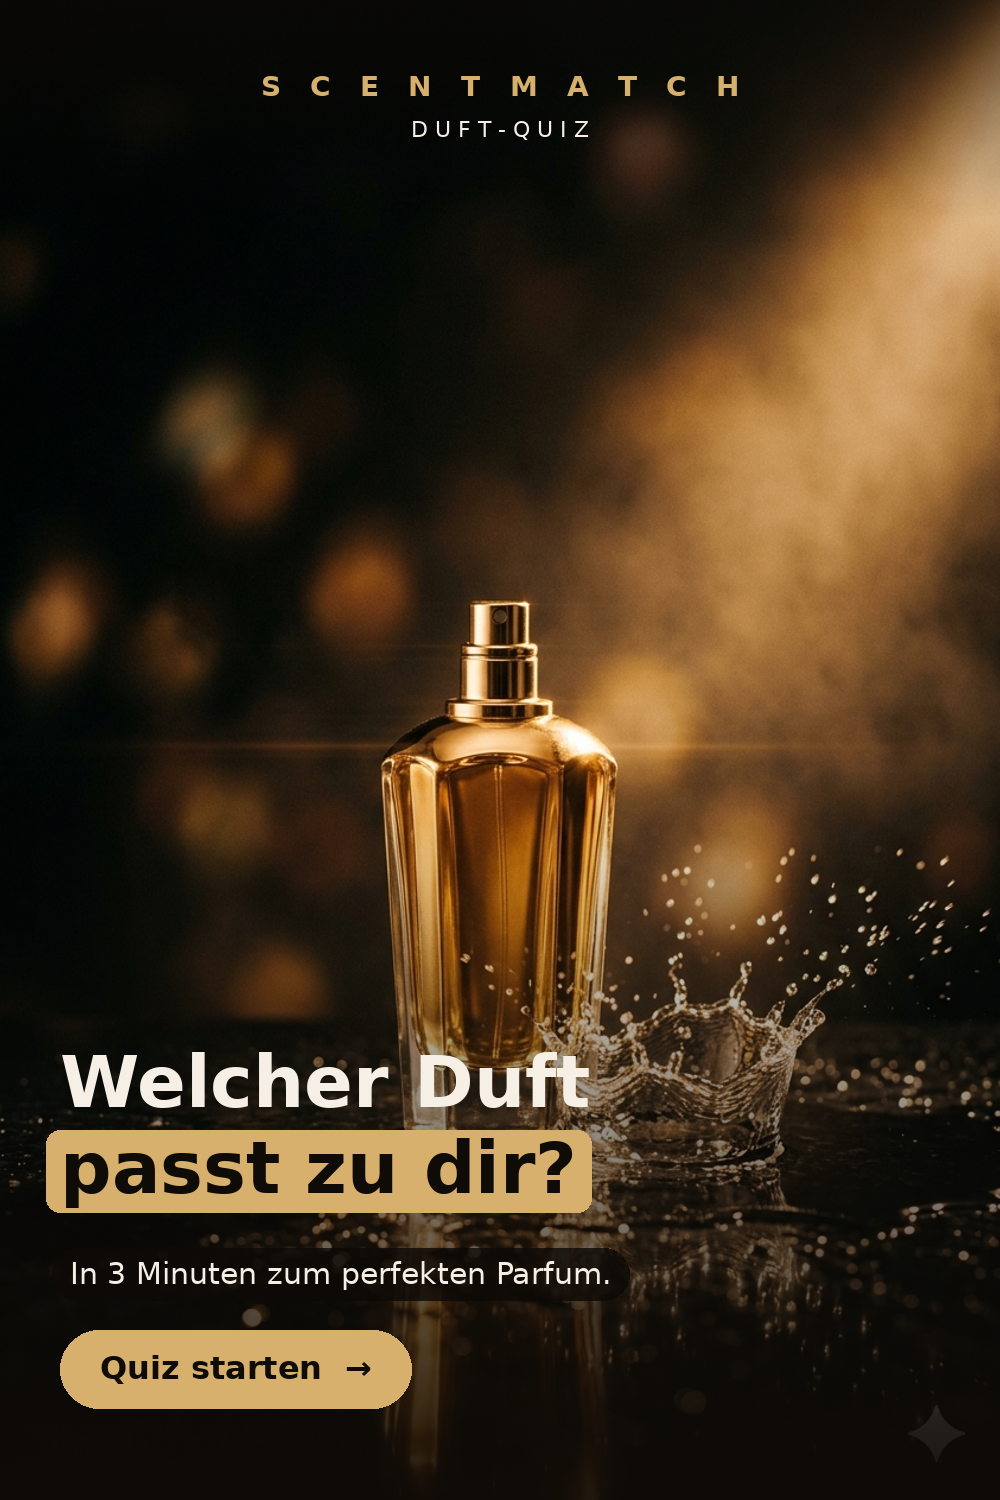
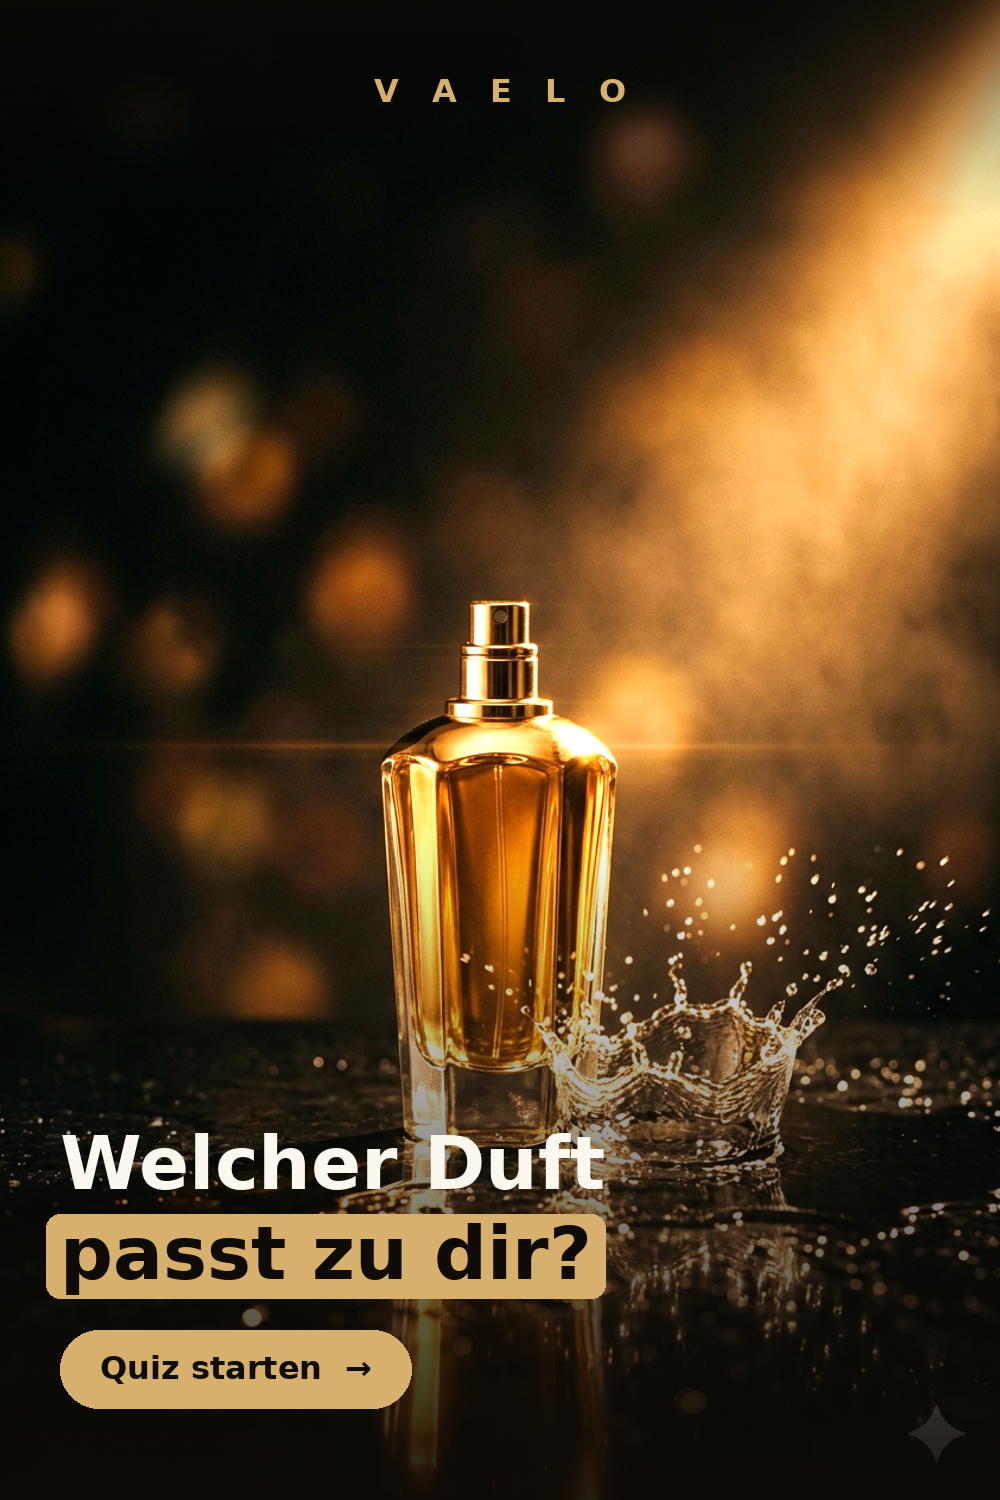
Marke umbenannt: ScentMatch -> Vaelo (UI, Metadaten, Bild-Assets)
- Alle Anzeige-Texte ScentMatch -> Vaelo / SCENTMATCH -> VAELO
- DB-Feld scentmatch_score und URL scentmatch-ai bleiben technisch erhalten
- Neue Profilbild- und Pin-Assets mit Vaelo-Branding
- CLAUDE.md Namenswechsel-Hinweis ergaenzt

Claude-Session: https://claude.ai/code/session_01S4e924XgWkaCsCmU3UswFh

diff --git a/app/page.tsx b/app/page.tsx
@@ -191,10 +191,10 @@ type QuizSnapshot = {
 
 // Fallback, falls die Datenbank (noch) nicht erreichbar ist. Ohne slug -> kein Link.
 const starterPerfumes: Perfume[] = [
-  { id: '1', perfume_name: 'Beach Walk Style', slug: null, gender: 'Unisex', fragrance_family: 'clean', price_chf: 95, longevity: 6, sillage: 5, scentmatch_score: 91, season: 'Sommer', occasion: 'Alltag', description: null, image_url: null, affiliate_url: null, top_notes: null, heart_notes: null, base_notes: null, brands: { name: 'ScentMatch Pick' } },
-  { id: '2', perfume_name: 'Vanilla Cashmere Style', slug: null, gender: 'Women', fragrance_family: 'gourmand', price_chf: 79, longevity: 8, sillage: 7, scentmatch_score: 94, season: 'Herbst/Winter', occasion: 'Date', description: null, image_url: null, affiliate_url: null, top_notes: null, heart_notes: null, base_notes: null, brands: { name: 'ScentMatch Pick' } },
-  { id: '3', perfume_name: 'Dark Wood Style', slug: null, gender: 'Unisex', fragrance_family: 'woody', price_chf: 120, longevity: 9, sillage: 8, scentmatch_score: 92, season: 'Winter', occasion: 'Abend', description: null, image_url: null, affiliate_url: null, top_notes: null, heart_notes: null, base_notes: null, brands: { name: 'ScentMatch Pick' } },
-  { id: '4', perfume_name: 'Blooming Rose Style', slug: null, gender: 'Women', fragrance_family: 'floral', price_chf: 68, longevity: 7, sillage: 6, scentmatch_score: 90, season: 'Frühling', occasion: 'Alltag', description: null, image_url: null, affiliate_url: null, top_notes: null, heart_notes: null, base_notes: null, brands: { name: 'ScentMatch Pick' } }
+  { id: '1', perfume_name: 'Beach Walk Style', slug: null, gender: 'Unisex', fragrance_family: 'clean', price_chf: 95, longevity: 6, sillage: 5, scentmatch_score: 91, season: 'Sommer', occasion: 'Alltag', description: null, image_url: null, affiliate_url: null, top_notes: null, heart_notes: null, base_notes: null, brands: { name: 'Vaelo Pick' } },
+  { id: '2', perfume_name: 'Vanilla Cashmere Style', slug: null, gender: 'Women', fragrance_family: 'gourmand', price_chf: 79, longevity: 8, sillage: 7, scentmatch_score: 94, season: 'Herbst/Winter', occasion: 'Date', description: null, image_url: null, affiliate_url: null, top_notes: null, heart_notes: null, base_notes: null, brands: { name: 'Vaelo Pick' } },
+  { id: '3', perfume_name: 'Dark Wood Style', slug: null, gender: 'Unisex', fragrance_family: 'woody', price_chf: 120, longevity: 9, sillage: 8, scentmatch_score: 92, season: 'Winter', occasion: 'Abend', description: null, image_url: null, affiliate_url: null, top_notes: null, heart_notes: null, base_notes: null, brands: { name: 'Vaelo Pick' } },
+  { id: '4', perfume_name: 'Blooming Rose Style', slug: null, gender: 'Women', fragrance_family: 'floral', price_chf: 68, longevity: 7, sillage: 6, scentmatch_score: 90, season: 'Frühling', occasion: 'Alltag', description: null, image_url: null, affiliate_url: null, top_notes: null, heart_notes: null, base_notes: null, brands: { name: 'Vaelo Pick' } }
 ];
 
 export default function Home() {
@@ -393,10 +393,10 @@ export default function Home() {
   // Ergebnis teilen: nutzt das native Teilen-Menü (Handy) oder kopiert den Link.
   async function shareResult() {
     const url = buildShareUrl();
-    const title = `Mein ScentMatch-Duftprofil: ${profileText[winner].title}`;
+    const title = `Mein Vaelo-Duftprofil: ${profileText[winner].title}`;
     const text = topPick
-      ? `Mein Top-Match ist ${topPick.perfume.perfume_name}. Finde mit dem kostenlosen ScentMatch-Quiz deinen:`
-      : 'Finde mit dem kostenlosen ScentMatch-Quiz deinen Signature-Duft:';
+      ? `Mein Top-Match ist ${topPick.perfume.perfume_name}. Finde mit dem kostenlosen Vaelo-Quiz deinen:`
+      : 'Finde mit dem kostenlosen Vaelo-Quiz deinen Signature-Duft:';
     if (typeof navigator !== 'undefined' && navigator.share) {
       try {
         await navigator.share({ title, text, url });
@@ -423,7 +423,7 @@ export default function Home() {
             <div>
               <p className="eyebrow">Dein Signature-Duft · kuratiert in der Schweiz</p>
               <h1>Finde deinen Signature-Duft in 3 Minuten.</h1>
-              <p className="lead">ScentMatch verbindet ein elegantes Duft-Quiz mit einer intelligenten Match-Engine: Jeder Duft wird gegen deine Antworten zu Geschlecht, Duftrichtung, Anlass, Saison, Intensität und Budget bewertet.</p>
+              <p className="lead">Vaelo verbindet ein elegantes Duft-Quiz mit einer intelligenten Match-Engine: Jeder Duft wird gegen deine Antworten zu Geschlecht, Duftrichtung, Anlass, Saison, Intensität und Budget bewertet.</p>
               <div className="cta">
                 <a className="button" href="#quiz">Quiz starten</a>
                 <Link className="button secondary" href="/duefte">Alle Düfte ansehen</Link>
@@ -465,7 +465,7 @@ export default function Home() {
         </section>
 
         <section id="warum" className="section">
-          <p className="eyebrow">Warum ScentMatch?</p>
+          <p className="eyebrow">Warum Vaelo?</p>
           <h2>Duft finden, das sich nicht nach Glücksspiel anfühlt</h2>
           <div className="why-grid">
             <div className="why-card">
@@ -529,7 +529,7 @@ export default function Home() {
         <section className="section">
           <p className="eyebrow">Highlights</p>
           <h2>Unsere bestbewerteten Düfte</h2>
-          <p className="small">Eine handverlesene Auswahl quer durch alle Duftrichtungen – sortiert nach ScentMatch-Score.</p>
+          <p className="small">Eine handverlesene Auswahl quer durch alle Duftrichtungen – sortiert nach Vaelo-Score.</p>
           <div className="perfume-list">
             {highlights.map(p => (
               <PerfumeTile perfume={p} key={p.id} />

diff --git a/app/layout.tsx b/app/layout.tsx
@@ -27,23 +27,23 @@ const SITE_URL = process.env.NEXT_PUBLIC_SITE_URL || 'https://scentmatch-ai.verc
 export const metadata: Metadata = {
   metadataBase: new URL(SITE_URL),
   title: {
-    default: 'ScentMatch – Finde deinen Signature-Duft',
-    template: '%s | ScentMatch'
+    default: 'Vaelo – Finde deinen Signature-Duft',
+    template: '%s | Vaelo'
   },
   description:
-    'ScentMatch hilft dir, mit einem eleganten Duft-Quiz und einer intelligenten Empfehlungslogik den perfekten Parfum zu finden – Duftfamilie, Anlass, Saison und Stil inklusive.',
-  keywords: ['Parfum finden', 'Duft Quiz', 'Signature Duft', 'Duftberatung', 'ScentMatch'],
+    'Vaelo hilft dir, mit einem eleganten Duft-Quiz und einer intelligenten Empfehlungslogik den perfekten Parfum zu finden – Duftfamilie, Anlass, Saison und Stil inklusive.',
+  keywords: ['Parfum finden', 'Duft Quiz', 'Signature Duft', 'Duftberatung', 'Vaelo'],
   verification: {
     google: 'hTy76EREclc_v_vWftD88u4tZ8VhsT630KvxJRRLdaw'
   },
   openGraph: {
     type: 'website',
     locale: 'de_DE',
-    siteName: 'ScentMatch',
+    siteName: 'Vaelo',
     url: SITE_URL,
-    title: 'ScentMatch – Finde deinen Signature-Duft',
+    title: 'Vaelo – Finde deinen Signature-Duft',
     description:
-      'Finde mit ScentMatch deinen perfekten Duft – per Quiz und intelligenter Empfehlungslogik.'
+      'Finde mit Vaelo deinen perfekten Duft – per Quiz und intelligenter Empfehlungslogik.'
   }
 };
 
@@ -56,7 +56,7 @@ export default function RootLayout({ children }: { children: React.ReactNode }) 
         <footer className="site-footer">
           <div className="container footer-inner">
             <div>
-              <div className="logo">ScentMatch</div>
+              <div className="logo">Vaelo</div>
               <p className="footer-kicker">Discovery · Fragrance · Boutique</p>
               <p className="small footer-tag">Die moderne Duft-Findung – kuratiert in der Schweiz. Finde mit Quiz und intelligenter Match-Engine deinen Signature-Duft.</p>
             </div>
@@ -68,7 +68,7 @@ export default function RootLayout({ children }: { children: React.ReactNode }) 
               <a href="/datenschutz">Datenschutz</a>
             </nav>
           </div>
-          <div className="container footer-bottom small">© {year} ScentMatch · Preise &amp; Angaben ohne Gewähr.</div>
+          <div className="container footer-bottom small">© {year} Vaelo · Preise &amp; Angaben ohne Gewähr.</div>
         </footer>
       </body>
     </html>

diff --git a/app/duft/[slug]/page.tsx b/app/duft/[slug]/page.tsx
@@ -45,14 +45,14 @@ export async function generateMetadata({
   const perfume = await getPerfumeBySlug(slug);
 
   if (!perfume) {
-    return { title: 'Duft nicht gefunden – ScentMatch' };
+    return { title: 'Duft nicht gefunden – Vaelo' };
   }
 
   const brand = perfume.brands?.name ? ` von ${perfume.brands.name}` : '';
-  const title = `${perfume.perfume_name}${brand} – Duftprofil & Bewertung | ScentMatch`;
+  const title = `${perfume.perfume_name}${brand} – Duftprofil & Bewertung | Vaelo`;
   const description =
     perfume.description ||
-    `${perfume.perfume_name}${brand}: Duftfamilie ${familyLabel(perfume.fragrance_family)}, ideal für ${perfume.occasion || 'jeden Anlass'} und die Saison ${perfume.season || 'ganzjährig'}. ScentMatch-Score ${perfume.scentmatch_score ?? '–'}/100.`;
+    `${perfume.perfume_name}${brand}: Duftfamilie ${familyLabel(perfume.fragrance_family)}, ideal für ${perfume.occasion || 'jeden Anlass'} und die Saison ${perfume.season || 'ganzjährig'}. Vaelo-Score ${perfume.scentmatch_score ?? '–'}/100.`;
 
   return {
     title,
@@ -118,7 +118,7 @@ function jsonLd(perfume: Perfume) {
     category: familyLabel(perfume.fragrance_family),
     description:
       perfume.description ||
-      `${perfume.perfume_name} – Duftprofil auf ScentMatch.`,
+      `${perfume.perfume_name} – Duftprofil auf Vaelo.`,
     image: perfume.image_url || undefined,
     aggregateRating: perfume.scentmatch_score
       ? {
@@ -180,14 +180,14 @@ export default async function PerfumeDetailPage({
               <span className="badge">{familyLabel(perfume.fragrance_family)}</span>
               {perfume.gender && <span className="badge">{perfume.gender}</span>}
               {perfume.scentmatch_score != null && (
-                <span className="badge">ScentMatch {perfume.scentmatch_score}/100</span>
+                <span className="badge">Vaelo {perfume.scentmatch_score}/100</span>
               )}
             </div>
           </div>
 
           <div className="card detail-stats">
             <h2>Auf einen Blick</h2>
-            <StatRow label="ScentMatch-Score" value={`${perfume.scentmatch_score ?? '–'}/100`} />
+            <StatRow label="Vaelo-Score" value={`${perfume.scentmatch_score ?? '–'}/100`} />
             <StatRow label="Haltbarkeit" value={`${perfume.longevity ?? '–'}/10`} />
             <StatRow label="Sillage (Projektion)" value={`${perfume.sillage ?? '–'}/10`} />
             <StatRow label="Saison" value={perfume.season || 'ganzjährig'} />

diff --git a/app/admin/page.tsx b/app/admin/page.tsx
@@ -269,7 +269,7 @@ export default function AdminPage() {
       <main>
         <div className="container">
           <nav className="nav">
-            <Link className="logo" href="/">ScentMatch</Link>
+            <Link className="logo" href="/">Vaelo</Link>
             <div className="badge">Admin-Login</div>
           </nav>
           <section className="section card" style={{ maxWidth: 460 }}>
@@ -299,7 +299,7 @@ export default function AdminPage() {
     <main>
       <div className="container">
         <nav className="nav">
-          <Link className="logo" href="/">ScentMatch</Link>
+          <Link className="logo" href="/">Vaelo</Link>
           <button className="button secondary" onClick={logout}>Abmelden</button>
         </nav>
 
@@ -360,7 +360,7 @@ export default function AdminPage() {
                 <input type="number" value={form.price_chf} onChange={e => setField('price_chf', e.target.value)} />
               </div>
               <div className="field">
-                <label>ScentMatch-Score (0–100)</label>
+                <label>Vaelo-Score (0–100)</label>
                 <input type="number" value={form.scentmatch_score} onChange={e => setField('scentmatch_score', e.target.value)} />
               </div>
               <div className="field">

diff --git a/app/datenschutz/page.tsx b/app/datenschutz/page.tsx
@@ -6,7 +6,7 @@ const SITE_URL = process.env.NEXT_PUBLIC_SITE_URL || 'https://scentmatch-ai.verc
 
 export const metadata: Metadata = {
   title: 'Datenschutzerklärung',
-  description: 'Wie ScentMatch mit deinen Daten umgeht – transparent und einfach erklärt.',
+  description: 'Wie Vaelo mit deinen Daten umgeht – transparent und einfach erklärt.',
   alternates: { canonical: '/datenschutz' }
 };
 
@@ -21,7 +21,7 @@ export default function DatenschutzPage() {
             <h1 className="detail-title">Datenschutzerklärung</h1>
             <p className="lead">
               Der Schutz deiner Daten ist uns wichtig. Hier erklären wir einfach und transparent, welche
-              Daten beim Besuch von ScentMatch anfallen.
+              Daten beim Besuch von Vaelo anfallen.
             </p>
           </div>
         </section>
@@ -40,7 +40,7 @@ export default function DatenschutzPage() {
 
           <h2>2. Grundsatz</h2>
           <p>
-            ScentMatch ist eine reine Informations- und Empfehlungsplattform. Du kannst die Website nutzen,
+            Vaelo ist eine reine Informations- und Empfehlungsplattform. Du kannst die Website nutzen,
             ohne ein Konto anzulegen oder persönliche Daten anzugeben. Wir sammeln <strong>keine</strong>{' '}
             Namen, Adressen oder Zahlungsdaten und betreiben <strong>kein</strong> Werbe-Tracking und keine
             Analyse-Cookies.

diff --git a/app/duefte/page.tsx b/app/duefte/page.tsx
@@ -5,12 +5,12 @@ import PerfumeCatalog from './PerfumeCatalog';
 const SITE_URL = process.env.NEXT_PUBLIC_SITE_URL || 'https://scentmatch-ai.vercel.app';
 
 export const metadata: Metadata = {
-  title: 'Alle Düfte – die ScentMatch-Duftdatenbank',
+  title: 'Alle Düfte – die Vaelo-Duftdatenbank',
   description:
-    'Stöbere durch die kuratierte ScentMatch-Duftdatenbank: über 160 Düfte von Bestsellern bis zu seltenen Nischenperlen – suchbar nach Name, Marke, Note, Geschlecht und Anlass.',
+    'Stöbere durch die kuratierte Vaelo-Duftdatenbank: über 160 Düfte von Bestsellern bis zu seltenen Nischenperlen – suchbar nach Name, Marke, Note, Geschlecht und Anlass.',
   alternates: { canonical: '/duefte' },
   openGraph: {
-    title: 'Alle Düfte | ScentMatch',
+    title: 'Alle Düfte | Vaelo',
     description: 'Die kuratierte Duftdatenbank – über 160 Düfte, suchbar und filterbar.',
     type: 'website',
     url: `${SITE_URL}/duefte`

diff --git a/app/ratgeber/[slug]/page.tsx b/app/ratgeber/[slug]/page.tsx
@@ -20,10 +20,10 @@ export async function generateMetadata({
 }): Promise<Metadata> {
   const { slug } = await params;
   const guide = getGuide(slug);
-  if (!guide) return { title: 'Ratgeber nicht gefunden – ScentMatch' };
+  if (!guide) return { title: 'Ratgeber nicht gefunden – Vaelo' };
 
   return {
-    title: `${guide.title} | ScentMatch`,
+    title: `${guide.title} | Vaelo`,
     description: guide.description,
     alternates: { canonical: `/ratgeber/${slug}` },
     openGraph: {
@@ -69,7 +69,7 @@ function jsonLd(guide: Guide) {
     headline: guide.title,
     description: guide.description,
     mainEntityOfPage: `${SITE_URL}/ratgeber/${guide.slug}`,
-    publisher: { '@type': 'Organization', name: 'ScentMatch' }
+    publisher: { '@type': 'Organization', name: 'Vaelo' }
   };
 }
 

diff --git a/app/impressum/page.tsx b/app/impressum/page.tsx
@@ -6,7 +6,7 @@ const SITE_URL = process.env.NEXT_PUBLIC_SITE_URL || 'https://scentmatch-ai.verc
 
 export const metadata: Metadata = {
   title: 'Impressum',
-  description: 'Rechtliche Angaben und Kontakt zum Betreiber von ScentMatch.',
+  description: 'Rechtliche Angaben und Kontakt zum Betreiber von Vaelo.',
   alternates: { canonical: '/impressum' }
 };
 
@@ -55,7 +55,7 @@ export default function ImpressumPage() {
 
           <h2>Affiliate-Hinweis</h2>
           <p>
-            ScentMatch finanziert sich teilweise über Affiliate-Links. Klickst du auf einen mit
+            Vaelo finanziert sich teilweise über Affiliate-Links. Klickst du auf einen mit
             „Affiliate" gekennzeichneten Link und kaufst beim Partner-Shop ein, erhalten wir ggf. eine
             kleine Provision. Für dich entstehen dadurch keine Mehrkosten – der Preis bleibt gleich.
           </p>

diff --git a/app/opengraph-image.tsx b/app/opengraph-image.tsx
@@ -2,7 +2,7 @@ import { ImageResponse } from 'next/og';
 
 // Vorschaubild fürs Teilen auf Social Media (WhatsApp, Instagram, Facebook …).
 // Next.js nutzt diese Datei automatisch als OpenGraph- und Twitter-Bild.
-export const alt = 'ScentMatch – Finde deinen Signature-Duft';
+export const alt = 'Vaelo – Finde deinen Signature-Duft';
 export const size = { width: 1200, height: 630 };
 export const contentType = 'image/png';
 
@@ -31,7 +31,7 @@ export default function OgImage() {
             marginBottom: 8
           }}
         >
-          SCENTMATCH
+          VAELO
         </div>
         <div
           style={{

diff --git a/app/ratgeber/page.tsx b/app/ratgeber/page.tsx
@@ -6,12 +6,12 @@ import { guides } from '@/lib/guides';
 const SITE_URL = process.env.NEXT_PUBLIC_SITE_URL || 'https://scentmatch-ai.vercel.app';
 
 export const metadata: Metadata = {
-  title: 'Duft-Ratgeber: Tipps, Dupes & Empfehlungen | ScentMatch',
+  title: 'Duft-Ratgeber: Tipps, Dupes & Empfehlungen | Vaelo',
   description:
     'Praktische Duft-Ratgeber: günstige Alternativen zu teuren Parfüms, die besten Sommerdüfte und welcher Duft zu welchem Anlass passt.',
   alternates: { canonical: '/ratgeber' },
   openGraph: {
-    title: 'Duft-Ratgeber | ScentMatch',
+    title: 'Duft-Ratgeber | Vaelo',
     description: 'Günstige Dupes, Sommerdüfte und Duft-Tipps für jeden Anlass.',
     type: 'website',
     url: `${SITE_URL}/ratgeber`

diff --git a/app/SiteHeader.tsx b/app/SiteHeader.tsx
@@ -20,7 +20,7 @@ export default function SiteHeader() {
   return (
     <header className={`site-header${scrolled ? ' scrolled' : ''}`}>
       <div className="header-inner">
-        <Link className="logo" href="/" onClick={close}>ScentMatch</Link>
+        <Link className="logo" href="/" onClick={close}>Vaelo</Link>
         <button
           type="button"
           className="nav-toggle"

diff --git a/app/admin/reset/page.tsx b/app/admin/reset/page.tsx
@@ -44,7 +44,7 @@ export default function ResetPasswordPage() {
     <main>
       <div className="container">
         <nav className="nav">
-          <Link className="logo" href="/">ScentMatch</Link>
+          <Link className="logo" href="/">Vaelo</Link>
           <div className="badge">Passwort zurücksetzen</div>
         </nav>
 